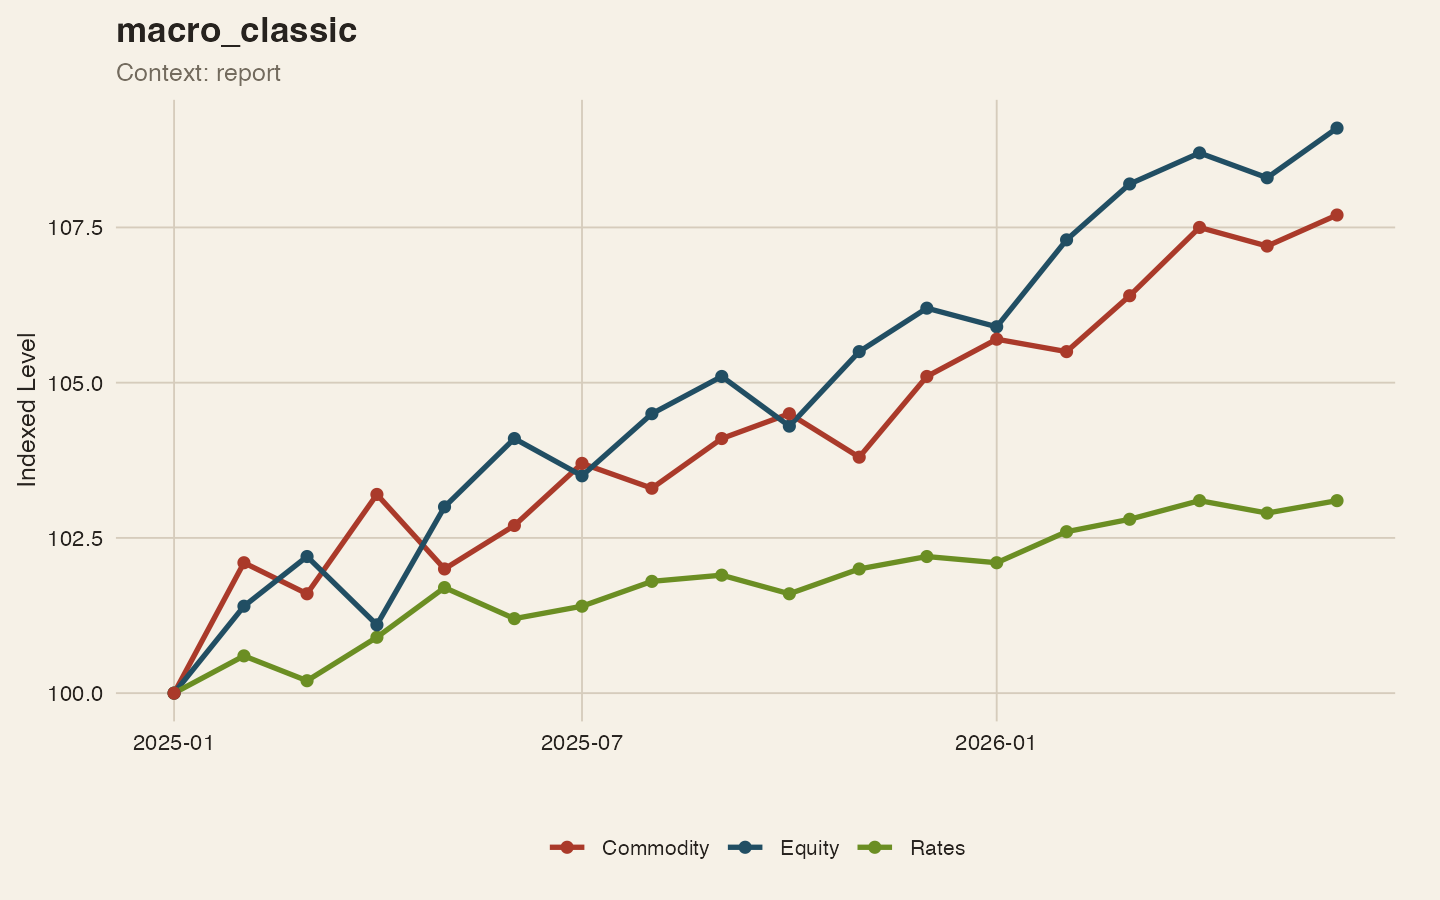
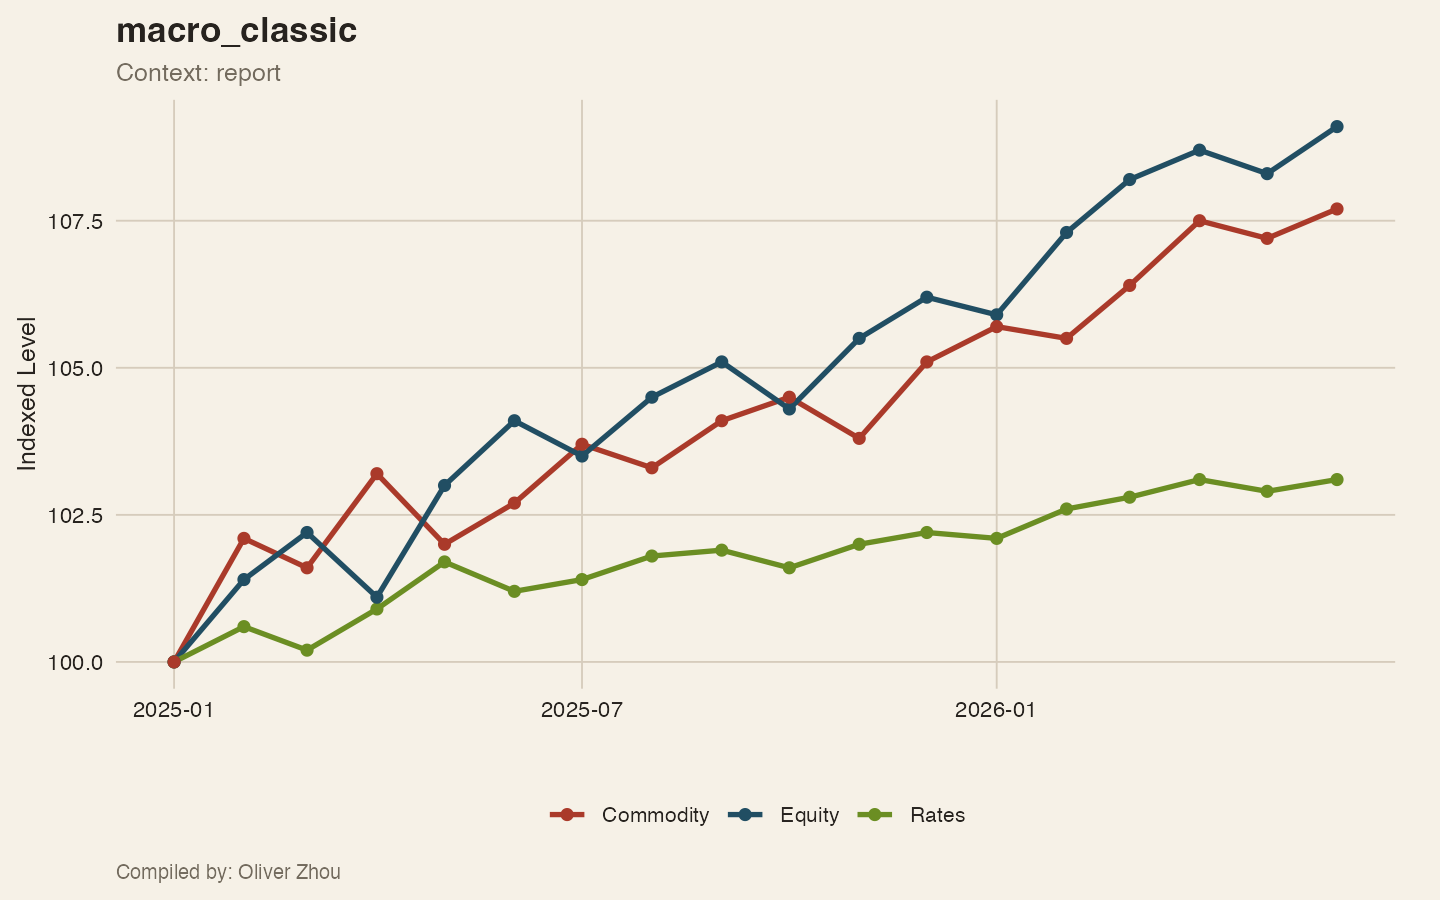
Release v0.0.4.4

diff --git a/README.md b/README.md
@@ -144,6 +144,12 @@ Current named styles include:
 - `cross_asset_color`
 - `minimal_print`
 - `presentation_bold`
+- `briefing_serif`
+- `institutional_blue`
+- `policy_memo`
+- `desk_monitor`
+- `client_slide`
+- `newswire_print`
 
 Current contexts include:
 
@@ -166,6 +172,12 @@ Most plotting functions now accept `style` and `context`, for example:
 gen_yield_curve_plot(curve_dt, style = "macro_classic", context = "slide")
 gen_plot_event_tsline_cum_ret(evt, style = "presentation_bold", context = "report")
 eval_strat_plot_tsline_eq(bt_res, style = "terminal_risk", context = "dashboard")
+```
+
+If `INVESTLABR_CONFIG` points to a YAML file with `plot_compiler_name`, `viz_theme_apply()` will append `Compiled by: ...` to plot captions by default. Higher-level wrappers such as `gen_grid_of_plots_with_labels()` and the patchwork-based market dashboard path also use the same compiler footer logic. You can suppress that per plot with `show_compiler = FALSE`.
+
+```yaml
+plot_compiler_name: Oliver Zhou
 ```
 
 ## Basic Usage

diff --git a/inst/gallery/README.md b/inst/gallery/README.md
@@ -44,6 +44,30 @@ The goal is to keep [README.md](../../README.md) concise while maintaining a gro
 
 ![presentation_bold](./output/style-presentation_bold.png)
 
+`briefing_serif`
+
+![briefing_serif](./output/style-briefing_serif.png)
+
+`institutional_blue`
+
+![institutional_blue](./output/style-institutional_blue.png)
+
+`policy_memo`
+
+![policy_memo](./output/style-policy_memo.png)
+
+`desk_monitor`
+
+![desk_monitor](./output/style-desk_monitor.png)
+
+`client_slide`
+
+![client_slide](./output/style-client_slide.png)
+
+`newswire_print`
+
+![newswire_print](./output/style-newswire_print.png)
+
 ### Context samples
 
 `report`

diff --git a/NEWS.md b/NEWS.md
@@ -1,5 +1,12 @@
 # investlabr news
 
+## 0.0.4.4
+
+- Added six new visualization styles: `briefing_serif`, `institutional_blue`, `policy_memo`, `desk_monitor`, `client_slide`, and `newswire_print`.
+- Added config-driven plot compiler caption support via `INVESTLABR_CONFIG` and `plot_compiler_name`.
+- Extended compiler footer handling to higher-level grid and dashboard wrappers.
+- Refreshed the style gallery scripts and static gallery images to cover the expanded style catalog.
+
 ## 0.0.4.3
 
 - Added static style and context sample images under `inst/gallery/output`.
